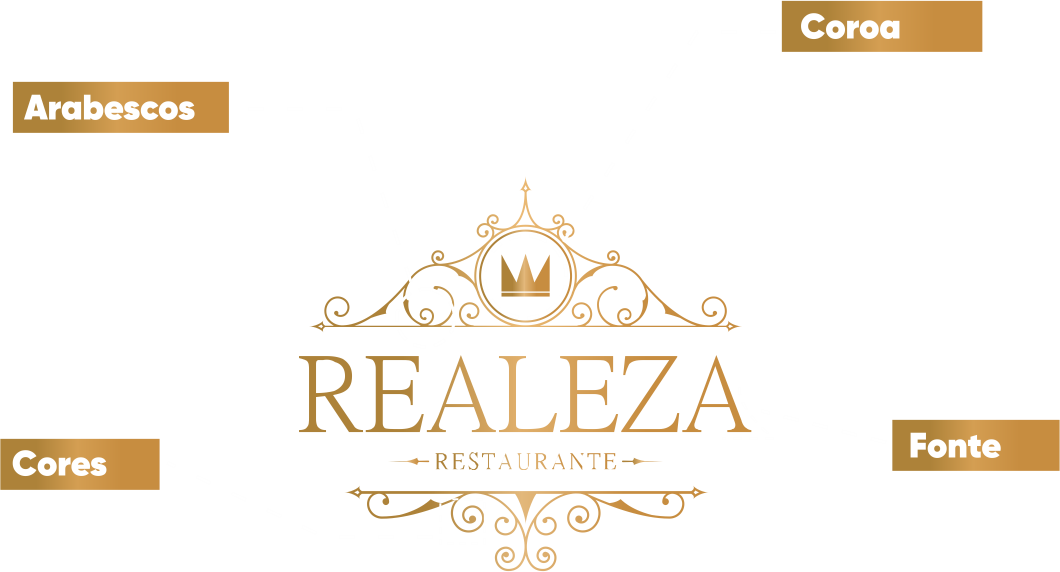
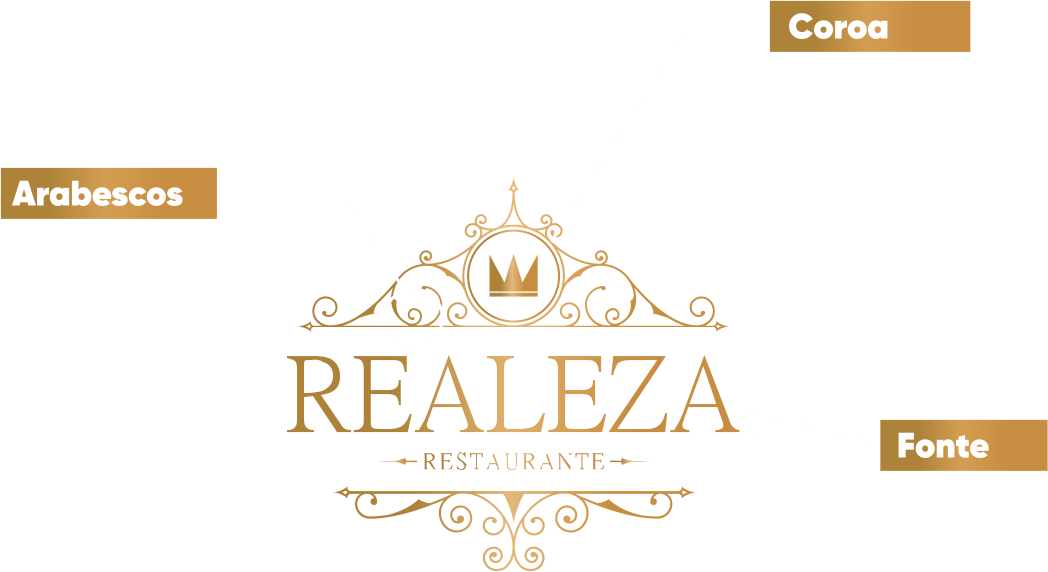
commit

diff --git a/css/main-logos.css b/css/main-logos.css
@@ -452,13 +452,10 @@ section.amarela div.rrdiv p.pcorestxt{
 section.amarela div.rrdiv p.rrtxt{font-family: 'gilroy';color: white;font-size: 1vw;}
 
 section.amarela div.rrdiv p.rrtxt1{
-  position: absolute; width: 12vw; left: 3.7vw;  top: 17.9vw; }
+  position: absolute; width: 12vw; left: 3.1vw;  top: 22vw; }
 
 section.amarela div.rrdiv p.rrtxt2{
-   position: absolute; width: 12vw; left: 40vw;  top: 14.1vw;
-}
-section.amarela div.rrdiv p.rrtxt3{
-     position: absolute; width: 10vw; left: 3.1vw;  top: 34.7vw;
+   position: absolute; width: 12vw; left: 39.85vw;  top: 14vw;
 }
 section.amarela div.rrdiv p.rrtxt4{
     text-align: right; position: absolute; width: 12vw; left: 40.9vw;  top: 33.9vw;
@@ -597,6 +594,105 @@ section.amarela div.kocdiv div.divopcoes div{
 .koc-opcao-1{ background:url(../img/logo-koc-3.png) center center;}
 .koc-opcao-2{ background:url(../img/logo-koc-4.png) center center;}
 .koc-opcao-3{ background:url(../img/logo-koc-5.png) center center;}
+
+
+
+/*
+000000000000000000000000000000000000000000000000000000000000000000000000000000000000000000000000000000000000000000000000000000000000000000000000000000000000000000000000000000000000000000000000000000000000000000000000000000000000000000000000000000000000000000000000000000000000000000000000000000000000000000000000000000000000000000000000000000000000000000000000000000000000000000000000000000000000000000000000000000000000000000000000000000000000000000000000000000000000000000000000000000000000000000000000000
+*/
+
+section.amarela div.pdadiv{
+  display: none;
+  position: relative;
+  background-color: rgba(0, 0, 0, 0.88);
+  width: 90vw;
+  height: 51vw;
+  position: absolute;
+  left: 5vw;
+  top: 63vw;
+}
+
+section.amarela div.pdadiv h3{
+  cursor: default;
+  margin: 3vw 0 0vw 0;
+  text-align:center;
+  font-family: 'gilroy-heavyitalic';
+  text-decoration: none;
+  /*color: #363636;*/
+  color: white;
+  font-size: 5vw;
+  letter-spacing: 0.01vw;
+}
+
+section.amarela div.pdadiv h2{
+
+  position:absolute; left: 2vw; top: 10vw;
+  font-family: 'gilroy-extrabold';
+  color: white;
+  font-size: 3vw;
+  letter-spacing: 0.01vw;
+}
+
+img.x{
+  cursor: pointer;
+  width: 2.5vw;height:auto;
+  position: absolute; left: 85vw; top: 2vw;
+} 
+section.amarela div.pdadiv img.comp{
+  width: 50vw;height:auto;
+  position: absolute; left: 3vw; top: 15.5vw;
+} 
+section.amarela div.pdadiv p.pcorestxt{
+  position: absolute;  width: 27vw; left: 58.3vw;  top: 22vw;
+    font-family: 'gilroy';color: white;font-size: 1vw;}
+
+
+
+section.amarela div.pdadiv p.pdatxt{font-family: 'gilroy';color: white;font-size: 1vw;}
+
+section.amarela div.pdadiv p.pdatxt1{
+  position: absolute; width: 12vw; left: 3.1vw;  top: 18.4vw; }
+
+section.amarela div.pdadiv p.pdatxt2{
+   position: absolute; width: 12vw; left: 42.4vw;  top: 19.5vw;
+}
+section.amarela div.pdadiv p.pdatxt3{
+     position: absolute; width: 9.8vw; left: 4.8vw;  top: 34vw;
+}
+section.amarela div.pdadiv h2.corestxt{
+  padding: 0 0 0 0; position: absolute; top: 10vw; left: 58vw;
+}
+
+
+section.amarela div.pdadiv img.cores{
+  width: 28vw;
+  position: absolute; left: 58.3vw; top: 14vw;
+}
+section.amarela div.pdadiv h2.opcoes{
+  padding: 0 0 0 0; position: absolute; top: 29vw; left: 58vw;
+}
+section.amarela div.pdadiv div.divopcoes{
+  display: flex;
+  position: absolute;
+  left: 57.4vw;
+  top: 34vw;
+  width: 40vw;
+  height: 10vw;
+  background-color: none;
+}
+section.amarela div.pdadiv div.divopcoes div{
+  background-size: 170% 100%;
+  margin: 0 0.6vw 0 0.6vw;
+  transition: 0.2s;
+  width: 9vw;
+  height: 15vw;
+  cursor: default;
+}
+
+
+.pda-opcao-1{ background:url(../img/logo-pda-3.png) center center;}
+.pda-opcao-2{ background:url(../img/logo-pda-4.png) center center;}
+.pda-opcao-3{ background:url(../img/logo-pda-5.png) center center;}
 
 
 

diff --git a/logos.html b/logos.html
@@ -108,9 +108,8 @@
 <img class="x" src="img/x.png">
 <h2>Composição</h2>
 <img class="comp" src="img/composicoes-rr.png">
-<p class="rrtxt rrtxt1">Lorem ipsum dolor sit amet, consectetur adipiscing elit. Vivamus et tortor. Nam viverra elit vestibulum. Nulla ac justo sit amet neque aliquet accumsan. In feugiat metus sit amet condimentum luctus.</p>
+<p class="rrtxt rrtxt1">Lorem ipsum dolor sit amet, consectetur adipiscing elit. Vivamus et tortor. Nam viverra elit vestibulum. Nulla ac justo sit amet neque aliquet accumsan. In feugiat metus sit amet condimentum luctus.Lorem ipsum dolor sit amet, consectetur adipiscing elit. Vivamus et tortor. Nam viverra elit vestibulum. Nulla ac justo sit amet neque aliquet accumsan. In feugiat metus sit amet condimentum luctus.</p>
 <p class="rrtxt rrtxt2">Lorem ipsum dolor sit amet, consectetur adipiscing elit. Vivamus et maximus tortor. Nam pretium viverra elit quis vestibulum. Nulla ac justo sit amet neque aliquet accumsan. In feugiat metus sit amet condimentum luctus. </p>
-<p class="rrtxt rrtxt3">Lorem ipsum dolor sit amet, consectetur adipiscing elit. Vivamus et maximus tortor. Nam pretium viverra elit quis vestibulum. Nulla ac justo sit amet neque aliquet accumsan. In feugiat metus sit amet condimentum luctus.</p>
 <p class="rrtxt rrtxt4">Lorem ipsum dolor sit amet, consectetur adipiscing elit. Vivamus et maximus tortor. Nam pretium viverra elit quis vestibulum. Nulla ac justo sit amet neque aliquet accumsan. In feugiat metus sit amet condimentum luctus.</p>
 <h2 class="corestxt">Cores</h2>
 <img class="cores" src="img/cores-rr.png">
@@ -143,6 +142,24 @@
 </div>
 </div>
 
+<div class="pdadiv divlogo">
+<h3>Papo de Adolescente</h3>
+<img class="x" src="img/x.png">
+<h2>Composição</h2>
+<img class="comp" src="img/composicoes-pda.png">
+<p class="pdatxt pdatxt1">Lorem ipsum dolor sit amet, consectetur adipiscing elit. Vivamus et tortor. Nam viverra elit vestibulum. Nulla ac justo sit amet neque aliquet accumsan. In feugiat metus sit amet condimentum luctus.</p>
+<p class="pdatxt pdatxt2">Lorem ipsum dolor sit amet, consectetur adipiscing elit. Vivamus et maximus tortor. Nam pretium viverra elit quis vestibulum. Nulla ac justo sit amet neque aliquet accumsan. In feugiat metus sit amet condimentum luctus.Lorem ipsum dolor sit amet, consectetur adipiscing elit. Vivamus et maximus tortor. Nam pretium viverra elit quis vestibulum. Nulla ac justo sit amet neque aliquet accumsan. In feugiat metus sit amet condimentum luctus.  </p>
+<p class="pdatxt pdatxt3">Lorem ipsum dolor sit amet, consectetur adipiscing elit. Vivamus et maximus tortor. Nam pretium viverra elit quis vestibulum. Nulla ac justo sit amet neque aliquet accumsan. In feugiat metus sit amet condimentum luctus.</p>
+<h2 class="corestxt">Cores</h2>
+<img class="cores" src="img/cores-pda.png">
+<p class="pcorestxt">Lorem ipsum dolor sit amet, consectetur adipiscing elit. Vivamus et maximus tortor. Nam pretium viverra elit quis vestibulum. Nulla ac justo sit amet neque aliquet accumsan. In feugiat metus sit amet condimentum luctus.</p>
+<h2 class="opcoes">Outras opções</h2>
+<div class="divopcoes">
+<div class="opcao-1 pda-opcao-1"></div>
+<div class="opcao-2 pda-opcao-2"></div>
+<div class="opcao-3 pda-opcao-3"></div>
+</div>
+</div>
 
 </section>
 
@@ -272,6 +289,9 @@ $('img.x').click(function() {$('div.divlogo').fadeOut(200);});
 $('li.kocli').click(function() {$('div.kocdiv').fadeIn(200);$('div.divopcoes').fadeIn(200);});
 $('img.x').click(function() {$('div.divlogo').fadeOut(200);});
 
+
+$('li.pdali').click(function() {$('div.pdadiv').fadeIn(200);$('div.divopcoes').fadeIn(200);});
+$('img.x').click(function() {$('div.divlogo').fadeOut(200);});
 
 
 

diff --git a/home.html b/home.html
@@ -10,8 +10,8 @@
   <link rel="stylesheet" href="css/reset.css">
   <link rel="stylesheet" href="css/main.css">
   <link rel="icon" href="img/ico-bressa-branco.png" sizes="16x16 32x32" type="image/png">
-    <link rel="preload" href="img/img/logo-medio-nome-2.png" as="image" type="img/png">
-    
+  <link rel="preload" href="img/img/logo-medio-nome-2.png" as="image" type="img/png">
+
 </head>
 <body>
 
